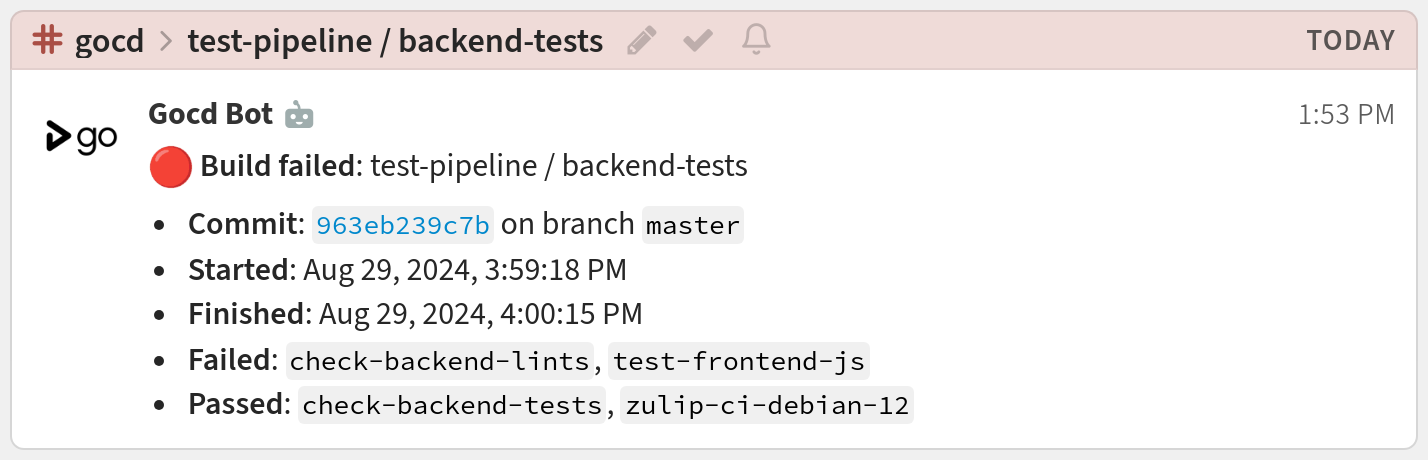
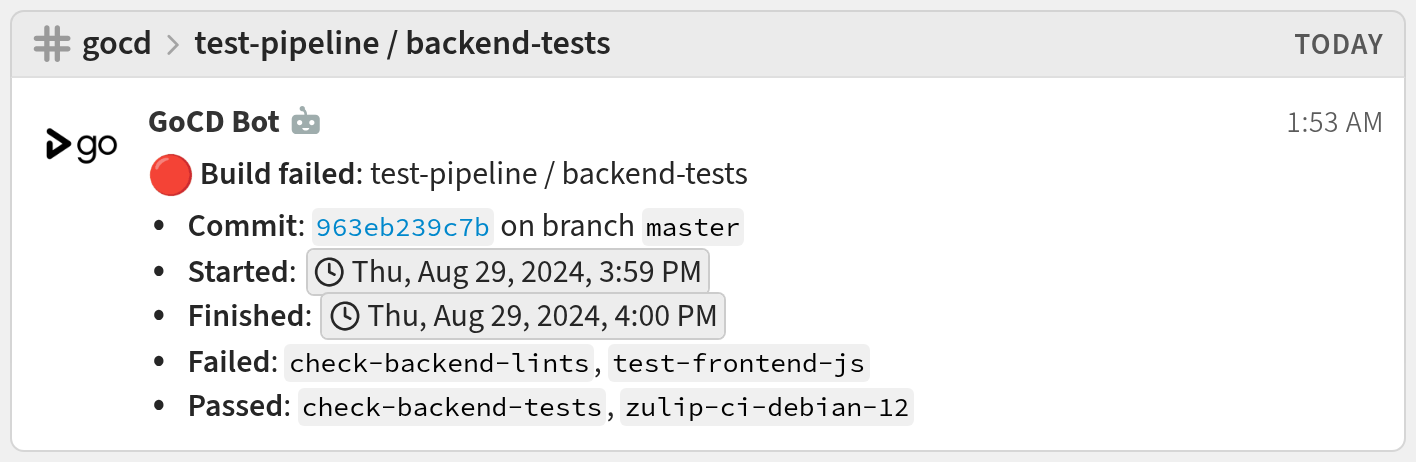
integrations/gocd: Use global time.

diff --git a/zerver/webhooks/gocd/tests.py b/zerver/webhooks/gocd/tests.py
@@ -10,7 +10,7 @@ class GocdHookTests(WebhookTestCase):
         expected_topic = "Pipeline / Stage"
         expected_message = """**Pipeline building**: Pipeline / Stage
 - **Commit**: [`59f3c6e4540`](https://github.com/swayam0322/Test/commit/59f3c6e4540) on branch `main`
-- **Started**: Feb 1, 2024, 1:58:13 AM"""
+- **Started**: <time:Feb 1, 2024, 1:58:13 AM>"""
 
         self.check_webhook(
             "pipeline_building",
@@ -22,8 +22,8 @@ class GocdHookTests(WebhookTestCase):
         expected_topic = "Pipeline / Stage"
         expected_message = """:green_circle: **Build passed**: Pipeline / Stage
 - **Commit**: [`59f3c6e4540`](https://github.com/swayam0322/Test/commit/59f3c6e4540) on branch `main`
-- **Started**: Feb 1, 2024, 1:58:13 AM
-- **Finished**: Feb 1, 2024, 1:58:40 AM
+- **Started**: <time:Feb 1, 2024, 1:58:13 AM>
+- **Finished**: <time:Feb 1, 2024, 1:58:40 AM>
 - **Passed**: `Job`"""
 
         self.check_webhook("pipeline_passed", expected_topic, expected_message)
@@ -32,8 +32,8 @@ class GocdHookTests(WebhookTestCase):
         expected_topic = "pipeline-one / stage-two"
         expected_message = """:red_circle: **Build failed**: pipeline-one / stage-two
 - **Commit**: [`963eb239c7b`](https://github.com/PieterCK/getting-started-repo.git/commit/963eb239c7b) on branch `master`
-- **Started**: Aug 28, 2024, 9:30:19 PM
-- **Finished**: Aug 28, 2024, 9:31:00 PM
+- **Started**: <time:Aug 28, 2024, 9:30:19 PM>
+- **Finished**: <time:Aug 28, 2024, 9:31:00 PM>
 - **Failed**: `task-two`"""
         self.check_webhook("pipeline_failed", expected_topic, expected_message)
 
@@ -41,8 +41,8 @@ class GocdHookTests(WebhookTestCase):
         expected_topic = "test-pipeline / backend-tests"
         expected_message = """:red_circle: **Build failed**: test-pipeline / backend-tests
 - **Commit**: [`963eb239c7b`](https://github.com/PieterCK/getting-started-repo.git/commit/963eb239c7b) on branch `master`
-- **Started**: Aug 29, 2024, 3:59:18 PM
-- **Finished**: Aug 29, 2024, 4:00:15 PM
+- **Started**: <time:Aug 29, 2024, 3:59:18 PM>
+- **Finished**: <time:Aug 29, 2024, 4:00:15 PM>
 - **Failed**: `check-backend-lints`, `test-frontend-js`
 - **Passed**: `check-backend-tests`, `zulip-ci-debian-12`"""
         self.check_webhook("pipeline_with_mixed_job_result", expected_topic, expected_message)

diff --git a/zerver/webhooks/gocd/view.py b/zerver/webhooks/gocd/view.py
@@ -18,14 +18,14 @@ TOPIC_TEMPLATE = "{pipeline} / {stage}"
 SCHEDULED_BODY_TEMPLATE = """
 **Pipeline {status}**: {pipeline} / {stage}
 - **Commit**: {commit_details}
-- **Started**: {start_time}
+- **Started**: <time:{start_time}>
 """
 
 COMPLETED_BODY_TEMPLATE = """
 {emoji} **Build {status}**: {pipeline} / {stage}
 - **Commit**: {commit_details}
-- **Started**: {start_time}
-- **Finished**: {end_time}
+- **Started**: <time:{start_time}>
+- **Finished**: <time:{end_time}>
 """
 
 
